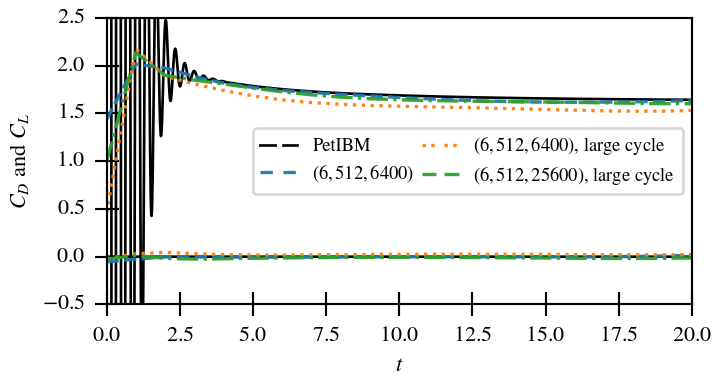
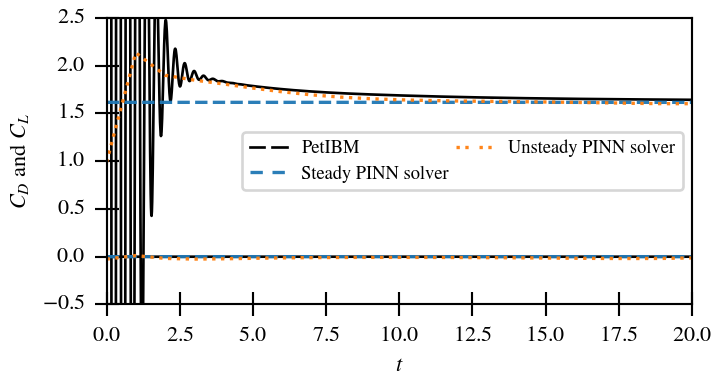
update figures in cylinder Re40

Changed region(s): [[0.1528, 0.125, 0.9778, 0.5312], [0.1528, 0.6562, 0.9778, 0.6875]]

diff --git a/results_2.tex b/results_2.tex
@@ -49,7 +49,7 @@ In our experience, it is possible to reduce the run time in half but obtain the 
 
 \begin{figure}
     \centering%
-    \includegraphics[width=\columnwidth]{cylinder-2d-re40/loss-hist-unsteady.png}%
+    \includegraphics[width=\columnwidth]{cylinder-2d-re40/loss-hist.png}%
     \caption{%
         Training convergence history of 2D cylinder flow at $Re=\num{40}$ for both steady and unsteady PINN solvers.
     }
@@ -86,7 +86,7 @@ We consider the results of $C_D$ validated for the PINN solvers and PetIBM.
             \toprule
             & $C_D$ & $C_{D_p}$ & $C_{D_f}$ \\
             \midrule
-            Steady PINN &  &  &  \\
+            Steady PINN & 1.62 & 1.06 & 0.55 \\
             Unsteady PINN & 1.60 & 1.06 & 0.55 \\
             PetIBM & 1.63 & 1.02 & 0.61 \\
             Rosetti et al., 2012\cite{rosetti_urans_2012}\tnote{1} & \num{1.74+-0.09} & n/a & n/a \\
@@ -117,9 +117,9 @@ We consider PetIBM and both PINN solvers validated.
 
 \begin{figure}
     \centering%
-    \includegraphics[width=0.95\columnwidth]{cylinder-2d-re40/surface-pressure-unsteady}%
+    \includegraphics[width=0.95\columnwidth]{cylinder-2d-re40/surface-pressure}%
     \caption{%
-        Surface pressure distribution of 2D cylinder flow at $Re=\num{40}$ w/ unsteady PINN
+        Surface pressure distribution of 2D cylinder flow at $Re=\num{40}$
     }
     \label{fig:cylinder-re40-pinn-surfp}%
 \end{figure}
@@ -128,7 +128,7 @@ We consider PetIBM and both PINN solvers validated.
     \centering%
     \includegraphics{cylinder-2d-re40/contour-comparison}%
     \caption{%
-        Contour comparison of 2D cylinder flow at $Re=\num{40}$ w/ unsteady PINN
+        Contour comparison of 2D cylinder flow at $Re=\num{40}$
     }
     \label{fig:cylinder-re40-contours}%
 \end{figure*}
